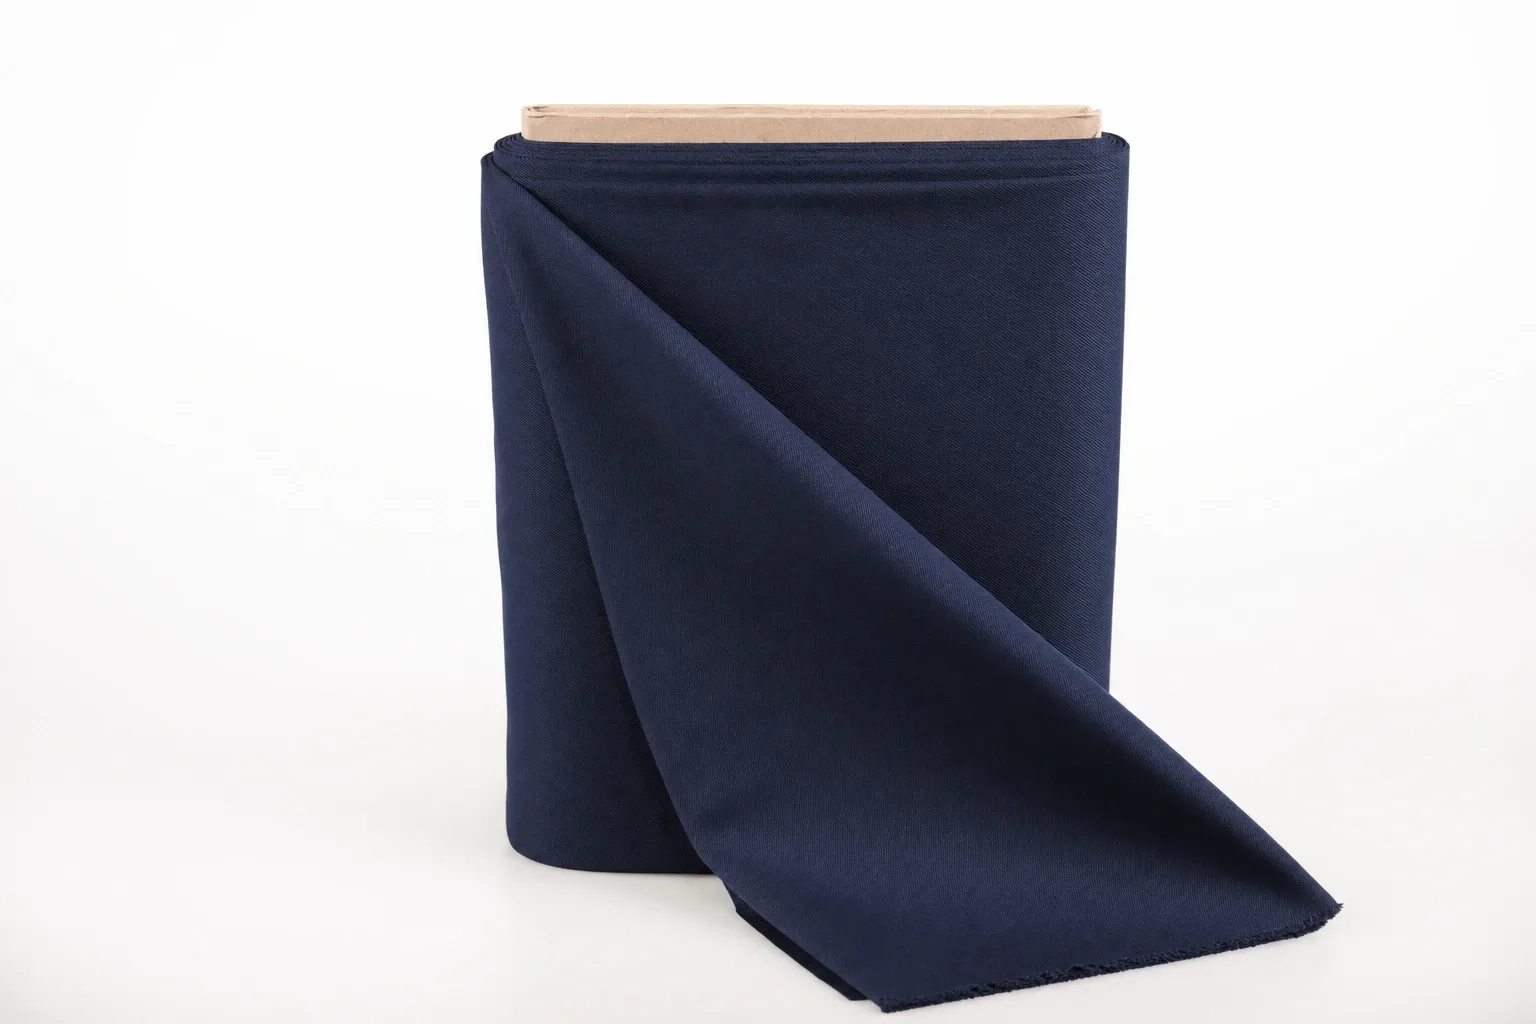
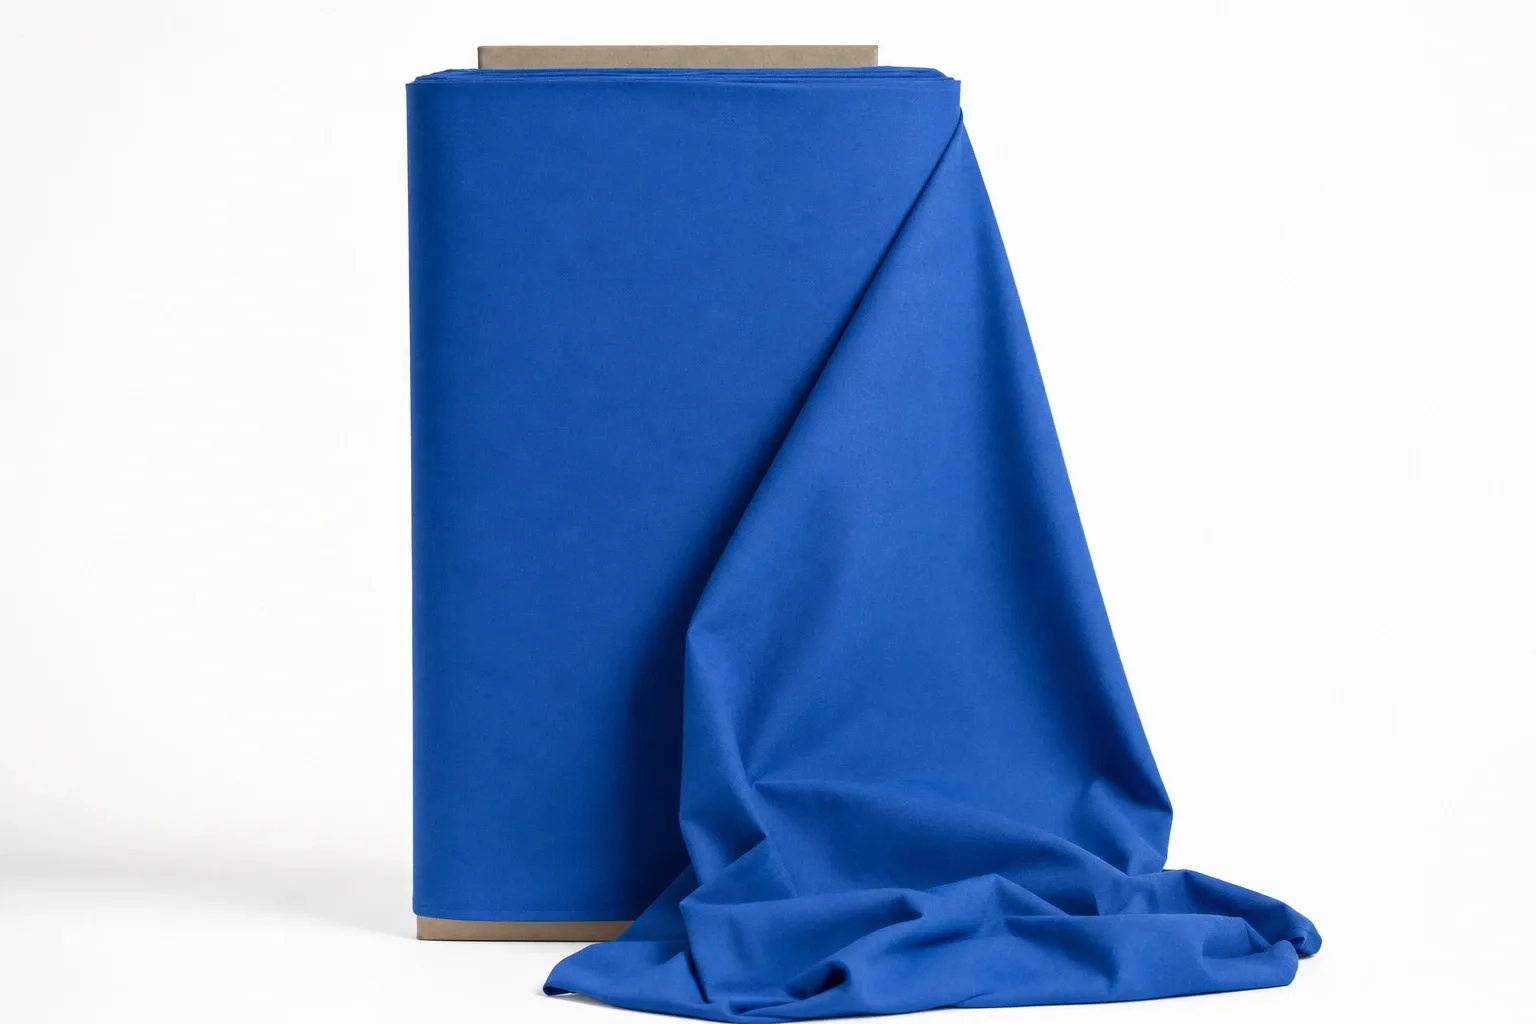
giros: séptima escena del saco (sin manos en cuadro), el azul de telas con el prompt del negro, calcetería recortada
Claude-Session: https://claude.ai/code/session_019MutHCukWJumH5E3dGyya4

diff --git a/sitio/src/data/giros/_fotos/README.md b/sitio/src/data/giros/_fotos/README.md
@@ -100,13 +100,13 @@ de cuatro dictámenes seguidos, no de una corazonada.
 |---|---|---|---|
 | uniformes | 4 de 23 | 14 de 23 · 9 recompuestas en ronda 3 · **las 23 aprobadas en ronda 4** | **resuelta** |
 | renta de vestidos | 1 de 22 | 19 de 22 · 3 recompuestas en ronda 3 · **las 22 aprobadas en ronda 4** | **resuelta a 10** |
-| telas y mercería | 11 de 22 | 21 de 22 · prod-negro en ronda 6 (luz espejeada respecto a sus hermanas) | **resuelta** |
+| telas y mercería | 11 de 22 | 21 de 22 · prod-negro aprobado en ronda 6 · prod-azul en ronda 8 con el prompt exacto del negro (al arreglar uno, otro hermano quedó desentonado: los cuatro deben salir del MISMO prompt) | **resuelta** |
 | ópticas | 5 de 22 | 21 de 22 · 1 recompuesta | **resuelta** |
-| sastrería | 1 de 22 | 21 de 22 · caso-regresa en ronda 6 (el generador no cuenta cuatro brazos: el cliente ahora va de espaldas) | **resuelta** |
+| sastrería | 1 de 22 | 21 de 22 · caso-regresa reprobada seis veces por manos; en ronda 8 se quita a la gente del cuadro (saco listo en el gancho, cliente desenfocado en la puerta) | **resuelta** |
 | ropa infantil | 6 de 21 | 17 de 21 · 4 en ronda 3 · **las 21 aprobadas** | **resuelta** |
 | bolsas y piel | 4 de 22 | 21 de 22 · el «antes» rehecho en ronda 3 · **las 22 aprobadas** | **resuelta, par confirmado** |
 | maternidad | 0 de 22 (2 retiradas por dignidad) | **las 22 aprobadas · cero fallas de dignidad** | **resuelta** |
-| tallas grandes | 9 de 22 | **las 22 aprobadas en ronda 2** · 4 rehechas con discos en blanco por coherencia de numeración | **resuelta, par confirmado** |
+| tallas grandes | 9 de 22 | **las 22 aprobadas en ronda 2** · 4 rehechas con discos en blanco (aprobadas en ronda 7); el giro queda 38-52 + discos lisos, ya sin 14-24 | **resuelta, par confirmado** |
 | outlet | 10 de 22 | **las 22 aprobadas en ronda 2** | **resuelta, par confirmado** |
 | emprendedoras | 9 de 22 | 13 en corrección | no (salió estudio, no cuarto de casa) |
 | lencería | 7 de 23 (2 retiradas por dignidad) | 16 en corrección | no (otra mujer y otro local) |
